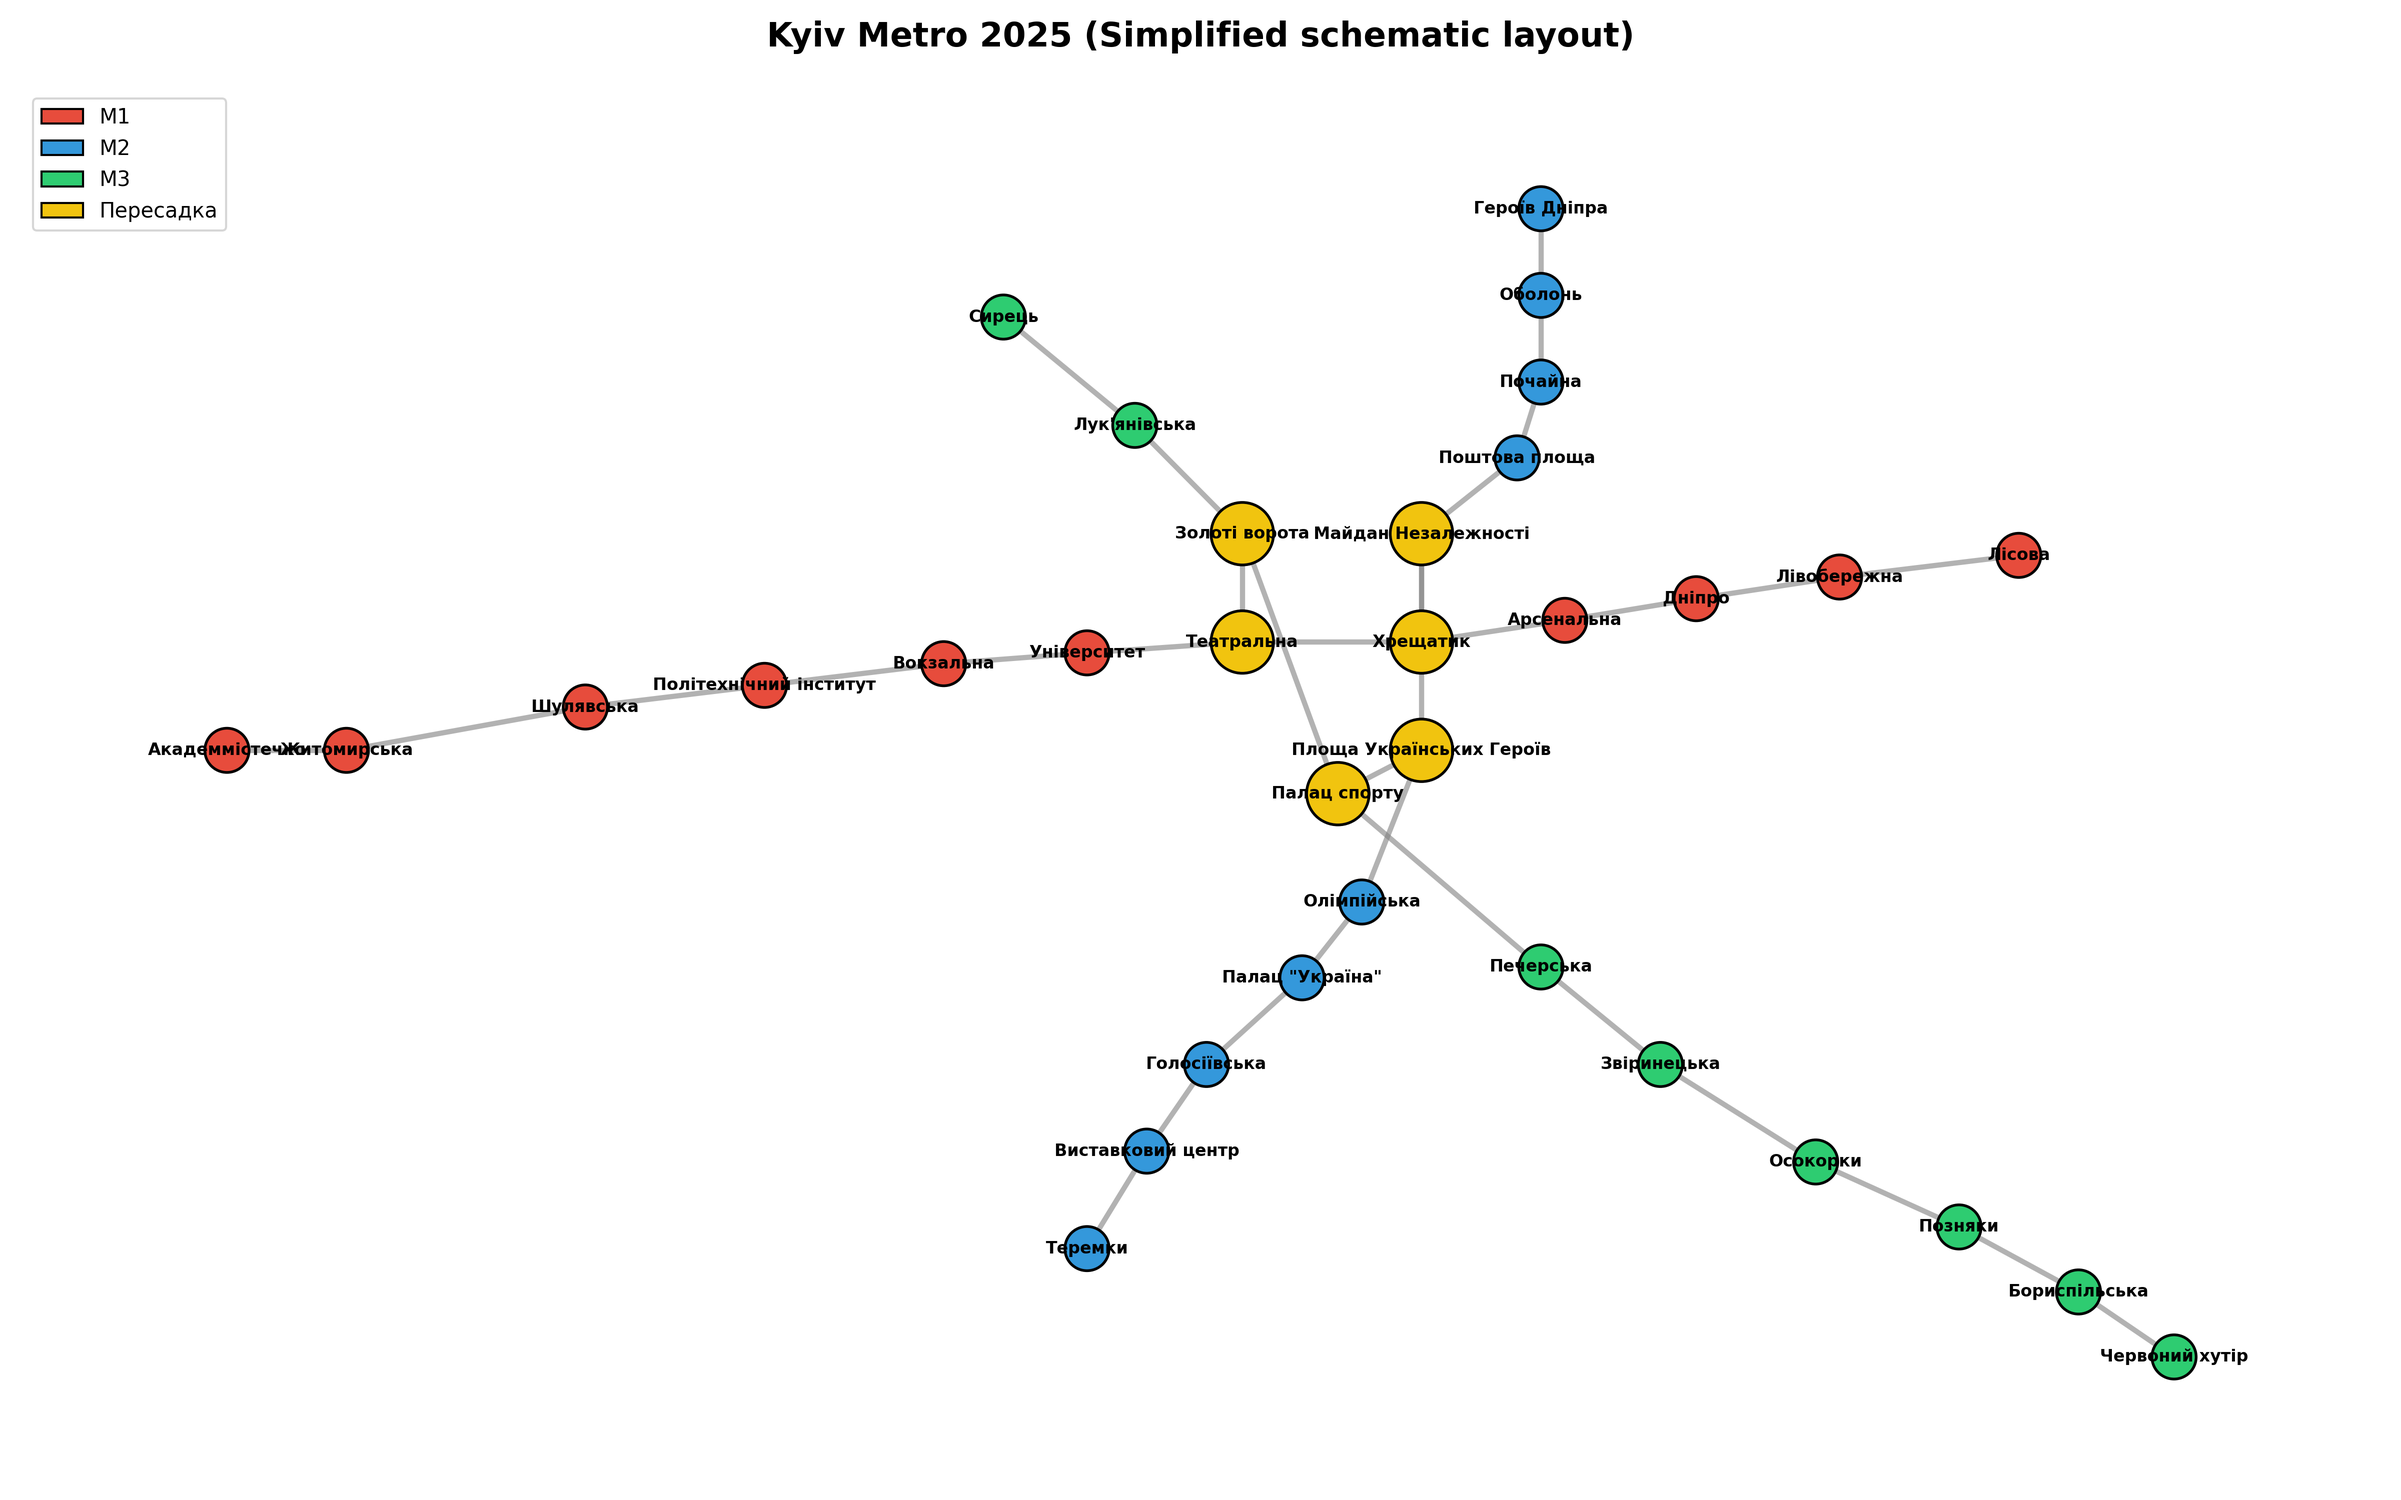
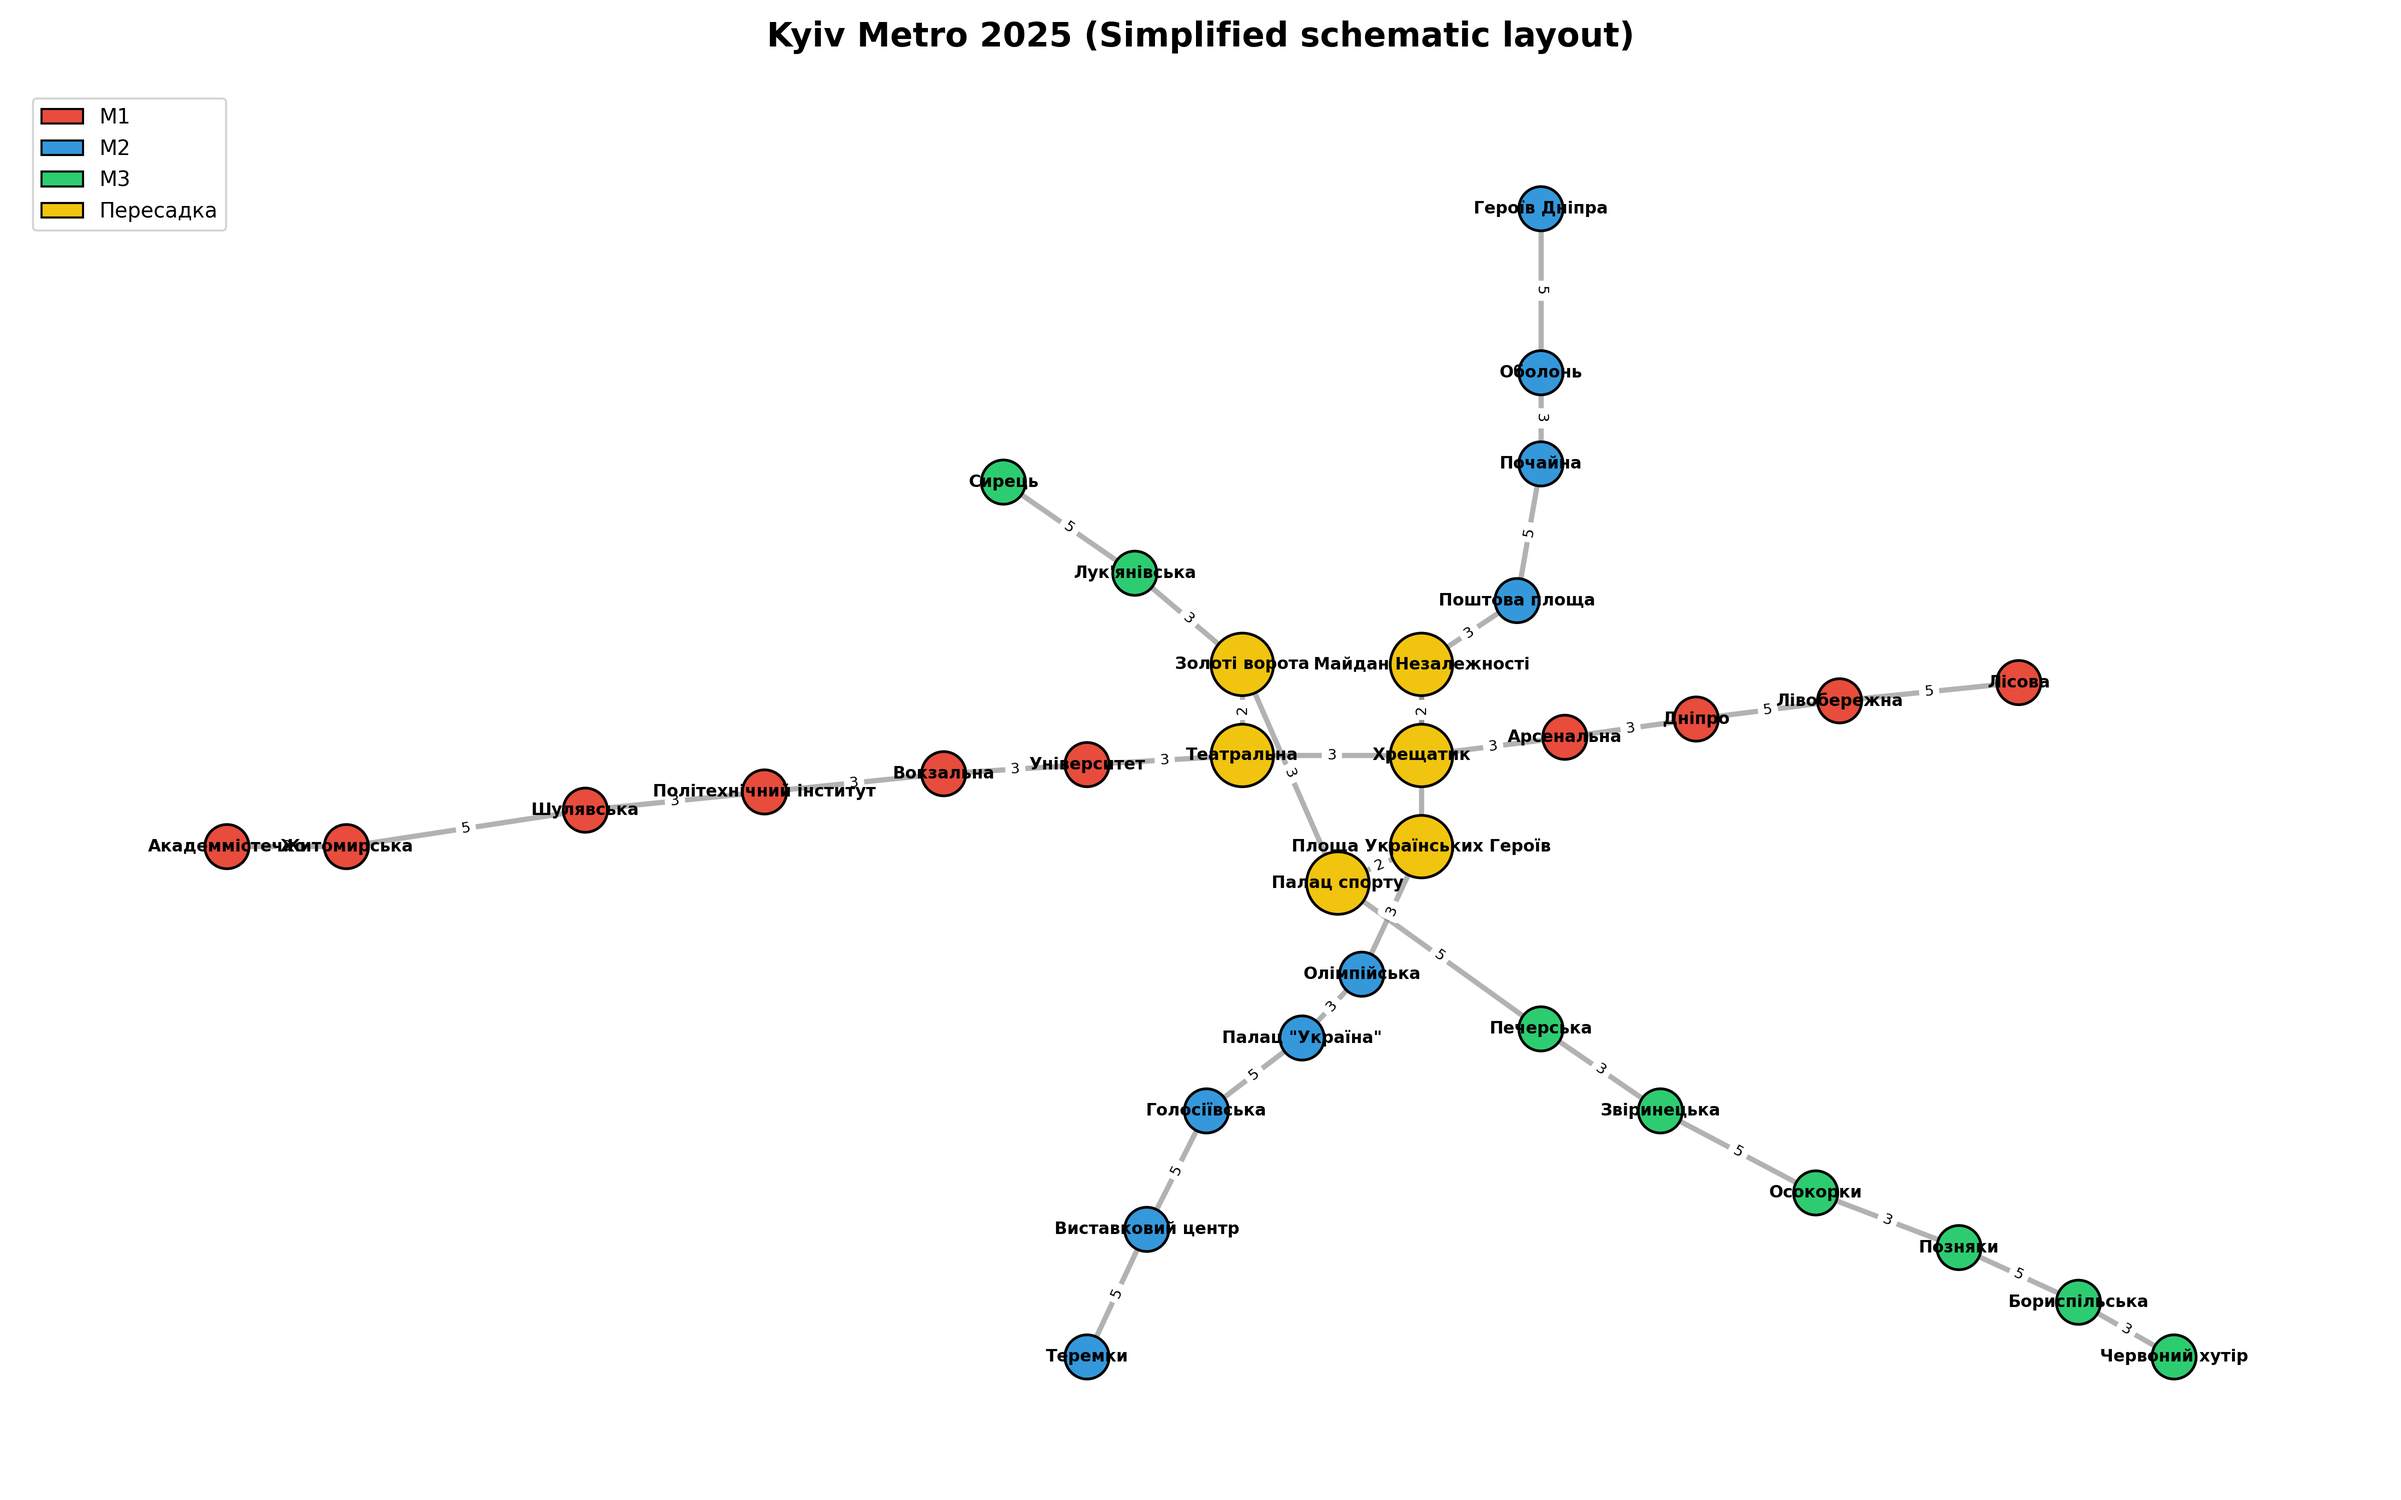
Refactor Kyiv Metro 2025 lines to simplify graph representation and update edge weights

diff --git a/task1.py b/task1.py
@@ -13,6 +13,9 @@ import networkx as nx
 line_M1 = [
     "Академмістечко",
     "Житомирська",
+    # "Святошин",
+    # "Нивки",
+    # "Берестейська",
     "Шулявська",
     "Політехнічний інститут",
     "Вокзальна",
@@ -21,34 +24,49 @@ line_M1 = [
     "Хрещатик",
     "Арсенальна",
     "Дніпро",
+    # "Гідропарк",
     "Лівобережна",
+    # "Дарниця",
+    # "Чернігівська",
     "Лісова",
 ]
 
 line_M2 = [
     "Героїв Дніпра",
+    # "Варшавська",
     "Оболонь",
     "Почайна",
+    # "Тараса Шевченка",
+    # "Контрактова площа",
     "Поштова площа",
     "Майдан Незалежності",
     "Площа Українських Героїв",
     "Олімпійська",
     'Палац "Україна"',
+    # "Либідська",
+    # "Деміївська",
     "Голосіївська",
+    # "Васильківська",
     "Виставковий центр",
+    # "Іподром",
     "Теремки",
 ]
 
 line_M3 = [
     "Сирець",
+    # "Дорогожичі",
     "Лук'янівська",
     "Золоті ворота",
     "Палац спорту",
     # "Кловська",
     "Печерська",
     "Звіринецька",
+    # "Видубичі",
+    # "Славутич",
     "Осокорки",
     "Позняки",
+    # "Харківська",
+    # "Вирлиця",
     "Бориспільська",
     "Червоний хутір",
 ]
@@ -66,11 +84,34 @@ TRANSFER_STATIONS = {
 
 LINE_COLORS = {"M1": "#e74c3c", "M2": "#3498db", "M3": "#2ecc71"}
 
+# Ребра, де при спрощенні були видалені проміжні станції → time = 5
+LONG_EDGES = {
+    "M1": [
+        ("Житомирська", "Шулявська"),   # Святошин, Нивки, Берестейська
+        ("Дніпро", "Лівобережна"),      # Гідропарк
+        ("Лівобережна", "Лісова"),      # Дарниця, Чернігівська
+    ],
+    "M2": [
+        ("Героїв Дніпра", "Оболонь"),           # Варшавська
+        ("Почайна", "Поштова площа"),   # Тараса Шевченка, Контрактова площа
+        ('Палац "Україна"', "Голосіївська"),   # Либідська, Деміївська
+        ("Голосіївська", "Виставковий центр"),  # Васильківська
+        ("Виставковий центр", "Теремки"),      # Іподром
+    ],
+    "M3": [
+        ("Сирець", "Лук'янівська"),        # Дорогожичі
+        ("Палац спорту", "Печерська"),     # Кловська
+        ("Звіринецька", "Осокорки"),       # Видубичі, Славутич
+        ("Позняки", "Бориспільська"),      # Харківська, Вирлиця
+    ],
+}
+
 
 # ---------- 2. BUILD GRAPH ----------
 
 
 def add_line_edges(G, stations):
+    # базово всюди ставимо time=3 (сусідні станції)
     for u, v in zip(stations[:-1], stations[1:]):
         G.add_edge(u, v, time=3)
 
@@ -79,22 +120,29 @@ def build_graph():
     G = nx.Graph()
 
     for code, st_list in lines.items():
+        # додаємо вершини
         for st in st_list:
             if st not in G:
                 G.add_node(st, lines={code})
             else:
                 G.nodes[st]["lines"].add(code)
 
+        # додаємо стандартні ребра між сусідніми станціями (time=3)
         add_line_edges(G, st_list)
 
-    # Interchanges
+        # оновлюємо вагу до 5 там, де при спрощенні були вилучені станції
+        for u, v in LONG_EDGES.get(code, []):
+            if G.has_edge(u, v):
+                G[u][v]["time"] = 5
+
+    # Interchanges (пересадки) → time = 2
     transfers = [
         ("Театральна", "Золоті ворота"),
         ("Хрещатик", "Майдан Незалежності"),
         ("Площа Українських Героїв", "Палац спорту"),
     ]
     for u, v in transfers:
-        G.add_edge(u, v, time=4)
+        G.add_edge(u, v, time=2)
 
     return G
 
@@ -130,7 +178,7 @@ def analyze_graph(G: nx.Graph) -> None:
     else:
         print("Graph is not connected.")
 
-    betweenness = nx.betweenness_centrality(G)
+    betweenness = nx.betweenness_centrality(G, weight="time")
     print("\nTop 5 stations by betweenness centrality:")
     for station, value in sorted(
         betweenness.items(), key=lambda x: x[1], reverse=True
@@ -170,24 +218,23 @@ def visualize(G):
         "Лісова": (5, 0.8),
 
         # M2 (blue)
-        "Героїв Дніпра": (1, 4),
-        "Оболонь": (1, 3.2),
-        "Почайна": (1, 2.4),
+        "Героїв Дніпра": (1, 6),
+        "Оболонь": (1, 4.2),
+        "Почайна": (1, 3.2),
         "Поштова площа": (0.8, 1.7),
         "Майдан Незалежності": (0, 1.0),
         "Площа Українських Героїв": (0, -1.0),
         "Олімпійська": (-0.5, -2.4),
         'Палац "Україна"': (-1.0, -3.1),
         "Голосіївська": (-1.8, -3.9),
-        "Виставковий центр": (-2.3, -4.7),
-        "Теремки": (-2.8, -5.6),
+        "Виставковий центр": (-2.3, -5.2),
+        "Теремки": (-2.8, -6.6),
 
         # M3 (green)
         "Сирець": (-3.5, 3),
         "Лук'янівська": (-2.4, 2),
         "Золоті ворота": (-1.5, 1),
         "Палац спорту": (-0.7, -1.4),
-        "Кловська": (0.2, -2.2),
         "Печерська": (1.0, -3.0),
         "Звіринецька": (2, -3.9),
         "Осокорки": (3.3, -4.8),
@@ -201,9 +248,22 @@ def visualize(G):
 
     fig, ax = plt.subplots(figsize=(16, 10))
 
+    # ребра
     nx.draw_networkx_edges(
         G, pos, width=2.5, alpha=0.6, edge_color="gray", ax=ax
     )
+
+    # 🔢 підписи до ребер: час у хвилинах (атрибут time)
+    edge_labels = nx.get_edge_attributes(G, "time")
+    nx.draw_networkx_edge_labels(
+        G,
+        pos,
+        edge_labels=edge_labels,
+        font_size=7,
+        ax=ax,
+    )
+
+    # вузли
     nx.draw_networkx_nodes(
         G,
         pos,
@@ -243,7 +303,7 @@ def visualize(G):
 
 def main():
     G = build_graph()
-    analyze_graph(G)     # <-- додали аналіз
+    analyze_graph(G)
     visualize(G)
 
 
